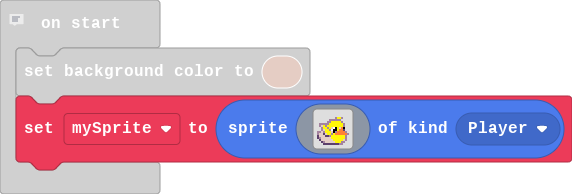
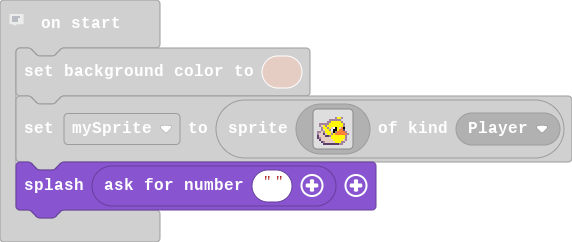
ask for users brirthday

diff --git a/main.ts b/main.ts
@@ -18,3 +18,4 @@ let mySprite = sprites.create(img`
     . . c b d d d d d 5 5 5 b b . . 
     . . . c c c c c c c c b b . . . 
     `, SpriteKind.Player)
+game.splash(game.askForNumber(""))
